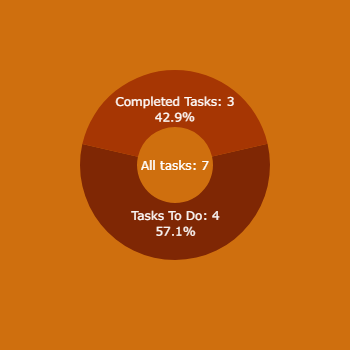
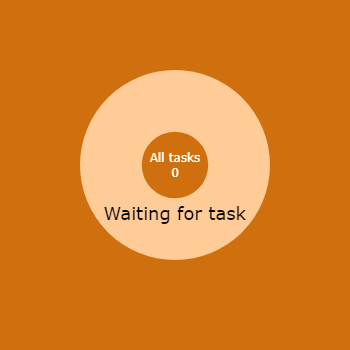
update tasks widget font/color, add default font/color. fix buttons positions after submit update task

Changed region(s): [[0.2286, 0.2, 0.7714, 0.7429]]

diff --git a/src/app/main.py b/src/app/main.py
@@ -6,7 +6,6 @@ import smtplib
 import sqlite3
 import sys, os
 
-
 # Add path to email passwd func
 current = os.path.dirname(os.path.realpath(__file__))
 parent = os.path.dirname(current)
@@ -51,6 +50,9 @@ class ToDoList():
         self.tasks_to_do_list_button = self.create_button_for_list_of_tasks_to_do()
         self.all_tasks_list_button = self.create_button_for_all_task_list()
         self.completed_tasks_list_button = self.create_button_for_completed_tasks_list()
+
+        # For start set bg and fg color for button showing current list
+        self.tasks_to_do_list_button.config(fg=APP_BACKGROUND, bg=INPUTS_BACKGROUND)
 
         # List for tasks
         self.tasks = self.get_to_do_tasks_from_db()
@@ -235,13 +237,14 @@ class ToDoList():
     def email_window(self, email_frame:bool):
         # Hide tasks frame and buttons
         self.list_of_tasks.forget()
-        self.delete_button.forget()
-        self.add_to_completed_button.forget()
+        self.delete_button.place_forget()
+        self.add_to_completed_button.place_forget()
         self.list_scrollbar.place_forget()
         self.email_button.grid_forget()
-        self.edit_task_button.forget()
+        self.edit_task_button.place_forget()
         self.input_field.grid_forget()
         self.button.grid_forget()
+        self.label_of_pie_chart.place_forget()
 
 
         # # Display email frame
@@ -252,30 +255,34 @@ class ToDoList():
             self.lists_button.grid_forget()
 
             # Show buttons lists and input
-            self.delete_button.pack(side=BOTTOM, pady=10) 
-            self.edit_task_button.pack(side=BOTTOM)
-            self.add_to_completed_button.pack(side=BOTTOM, pady=10)
+            self.delete_button.place(x=20, y=440)
+            self.edit_task_button.place(x=20, y=380)
+            self.add_to_completed_button.place(x=20, y=320)  
             self.input_field.grid(row=2, column=0, columnspan=3, padx=30, pady=20)
             self.button.grid(row=2, column=3, sticky='', padx=10, pady=20)
+
+            # Show widget
+            self.label_of_pie_chart.place(x=270, y=300)
 
         else:
             self.email_frame = self.create_email_field() 
             self.lists_button = self.create_lists_button()
+            self.label_of_pie_chart.place_forget()
 
 
         # Create labels
         own_email_address_field = Label(self.email_frame, text="Your email address:", bg=APP_BACKGROUND, fg='white',font='bold')
         passwd_to_email_field = Label(self.email_frame, text="Password to email:", bg=APP_BACKGROUND, fg='white',font='bold')
         email_address_to_send_field = Label(self.email_frame, text ="Recipient Address:", bg=APP_BACKGROUND, fg='white',font='bold')
+        subject_field = Label(self.email_frame, text="Subject:", bg=APP_BACKGROUND, fg='white', font='bold')        
         message_to_send_field = Label(self.email_frame, text ="Message:", bg=APP_BACKGROUND, fg='white', font='bold')
-        subject_field = Label(self.email_frame, text="Subject:", bg=APP_BACKGROUND, fg='white', font='bold')
 
         # Create entries
         own_email_address_entry = Entry(self.email_frame, width=30, bg=INPUTS_BACKGROUND)
         passwd_to_email_entry = Entry(self.email_frame, width=30, bg=INPUTS_BACKGROUND)
         email_address_to_send_entry = Entry(self.email_frame, width=30, bg=INPUTS_BACKGROUND)
+        subject_entry = Entry(self.email_frame, width=30, bg=INPUTS_BACKGROUND)        
         message_to_send_entry = Entry(self.email_frame, width=30, bg=INPUTS_BACKGROUND)
-        subject_entry = Entry(self.email_frame, width=30, bg=INPUTS_BACKGROUND)
 
         # Create send email button
         send_email_button = Button(self.email_frame, width=18, bg='green', fg='white', font='bold', text='Send Email')
@@ -289,8 +296,8 @@ class ToDoList():
         own_email_address_field.place(x=10, y=18)
         passwd_to_email_field.place(x=10, y=58)
         email_address_to_send_field.place(x=10, y=98)
-        message_to_send_field.place(x=10, y=138)
-        subject_field.place(x=10, y=178)
+        subject_field.place(x=10, y=138)        
+        message_to_send_field.place(x=10, y=178)
 
         # Place entries
         own_email_address_entry.place(x=200, y=20)
@@ -361,7 +368,7 @@ class ToDoList():
     # Create scrollbar
     def create_scrollbar(self):
         list_scrollbar = Scrollbar(self.tasks_frame)
-        list_scrollbar.place(x=470, y=10, height=250)
+        list_scrollbar.place(x=470, y=10, height=240)
         return list_scrollbar
     
 
@@ -406,6 +413,10 @@ class ToDoList():
 
                 # Commit changes in database
                 db_connector.commit()
+
+                # Update tasks wigdet
+                self.create_pie_chart()
+                self.pie_chart_label()
 
                 # Clear task input
                 self.input_field.delete(0, END)   
@@ -517,17 +528,21 @@ class ToDoList():
 
         # Show list frame and buttons
         self.list_of_tasks.pack(pady=20, padx=30)
-        self.delete_button.pack(side=BOTTOM, pady=10)
-        self.edit_task_button.pack(side=BOTTOM)
-        self.add_to_completed_button.pack(side=BOTTOM, pady=10)   
 
-        self.tasks_to_do_list_button.grid(row=0, column=0, pady=20, sticky='')
-        self.all_tasks_list_button.grid(row=0, column=1, pady=20, sticky='')
-        self.completed_tasks_list_button.grid(row=0, column=2, pady=20, padx=10, sticky='', columnspan=2)
+        self.tasks_to_do_list_button.grid(row=0, column=0, padx=15, pady=20, sticky='')
+        self.all_tasks_list_button.grid(row=0, column=1, padx=10, pady=20, sticky='')
+        self.completed_tasks_list_button.grid(row=0, column=2, pady=20, padx=20, sticky='', columnspan=2)
         self.email_button.grid(row=1, column=1)
+
         self.input_field.grid(row=2, column=0, columnspan=3, padx=30, pady=20)
         self.button.grid(row=2, column=3, sticky='', padx=10, pady=20)
 
+        self.delete_button.place(x=20, y=440)
+        self.edit_task_button.place(x=20, y=380)
+        self.add_to_completed_button.place(x=20, y=320)       
+
+        # Show widget
+        self.label_of_pie_chart.place(x=270, y=300)
 
         return updated_task
 
@@ -540,15 +555,23 @@ class ToDoList():
 
         # Show list frame and buttons
         self.list_of_tasks.pack(pady=20, padx=30)
-        self.delete_button.pack(side=BOTTOM, pady=10)
-        self.edit_task_button.pack(side=BOTTOM)
-        self.add_to_completed_button.pack(side=BOTTOM, pady=10)   
+
         self.tasks_to_do_list_button.grid(row=0, column=0, padx=15, pady=20, sticky='')
         self.all_tasks_list_button.grid(row=0, column=1, padx=10, pady=20, sticky='')
         self.completed_tasks_list_button.grid(row=0, column=2, pady=20, padx=20, sticky='', columnspan=2)
         self.email_button.grid(row=1, column=1)
+        
         self.input_field.grid(row=2, column=0, columnspan=3, padx=30, pady=20)
         self.button.grid(row=2, column=3, sticky='', padx=10, pady=20)
+        
+        self.delete_button.place(x=20, y=440)
+        self.edit_task_button.place(x=20, y=380)
+        self.add_to_completed_button.place(x=20, y=320) 
+
+
+        # Show widget
+        self.label_of_pie_chart.place(x=270, y=300)
+
 
         # Insert to list not updated task
         self.list_of_tasks.insert(END, no_updated_task)
@@ -603,6 +626,7 @@ class ToDoList():
         task_to_delete = self.list_of_tasks.selection_get()
 
         if task_to_delete != '':
+            
 
             # Delete selected task in list
             self.list_of_tasks.delete(ANCHOR)
@@ -619,6 +643,10 @@ class ToDoList():
             # Commit changes in database and close connections
             db_connect.commit()
             db_connect.close()
+
+            # Update tasks wigdet
+            self.create_pie_chart()
+            self.pie_chart_label()
 
             return task_to_delete
         
@@ -649,6 +677,10 @@ class ToDoList():
             db_connect.commit()
             db_connect.close()
 
+            # Update tasks wigdet
+            self.create_pie_chart()
+            self.pie_chart_label()
+
             return task_to_transfer
         
         return task_to_transfer
@@ -656,7 +688,6 @@ class ToDoList():
     # Create add task to completed list button
     def create_add_to_completed_button(self):
         add_to_completed_button = Button(self.tasks_frame, width=20, text="Add to completed", bg='green', fg="white", font='bold', command=self.add_to_completed_list)
-        # add_to_completed_button.pack(side=BOTTOM, pady=10)
         add_to_completed_button.place(x=20, y=320)
         return add_to_completed_button
 
@@ -664,7 +695,6 @@ class ToDoList():
     # Create update task button
     def create_edit_task_button(self):
         edit_task_button = Button(self.tasks_frame, width=20, text="Edit This Task", bg='blue', fg="white", font='bold', command=self.edit_task)
-        # edit_task_button.pack(side=BOTTOM)
         edit_task_button.place(x=20, y=380)
         return edit_task_button
 
@@ -672,7 +702,6 @@ class ToDoList():
     # Create delete button
     def create_delete_button(self):
         delete_button = Button(self.tasks_frame, width=20, text="Delete task", bg="red", fg="white", font='bold', command=self.delete_task_in_db)
-        # delete_button.pack(side=BOTTOM, pady=10)
         delete_button.place(x=20, y=440)
         return delete_button
         
@@ -816,48 +845,70 @@ class ToDoList():
     def create_pie_chart(self):
         # Connect to database
         db_connector = sqlite3.connect('to_do_list.db')
+
         # Create cursor
         cursor = db_connector.cursor()
-
         # Get tasks from task to do db
         tasks_to_do = cursor.execute("""SELECT name FROM task_to_do""")
 
+        # Create cursor
         cursor = db_connector.cursor()
         # Get tasks from completed tasks db
         completed_tasks = cursor.execute("""SELECT name FROM completed_tasks""")
 
+        # Create cursor
         cursor = db_connector.cursor()
         # Get tasks from all_tasks db
         all_tasks = cursor.execute("""SELECT name FROM all_tasks""")
-        # Close connection
-        # db_connector.close()
 
+
+        # Get len of tasks in all lists
         len_of_completed_tasks = len([task[0] for task in list(completed_tasks)])
         len_of_tasks_to_do = len([task[0] for task in list(tasks_to_do)])
         len_of_all_tasks = len([task[0] for task in list(all_tasks)])
 
-        field_names = [f"Completed Tasks: {len_of_completed_tasks}", f"Tasks To Do: {len_of_tasks_to_do}"]
+        # Create names and values for widget
+        field_names = [f"{len_of_completed_tasks}<br>Completed Tasks", f"{len_of_tasks_to_do}<br>Tasks To Do"]
         field_values = [len_of_completed_tasks, len_of_tasks_to_do]
 
-        title = f"All tasks: {len_of_all_tasks}"
-        fig = px.pie(values=field_values, names=field_names,color_discrete_sequence=px.colors.sequential.Oranges_r, hole=0.4)
+        # Create title with len of all tasks
+        title = f"All tasks<br>{len_of_all_tasks}"
 
-        fig.update_layout(autosize=False,width=350,height=350,showlegend=False, paper_bgcolor=APP_BACKGROUND)
-        
-        
+        if len_of_all_tasks > 0:
+            fig = px.pie(values=field_values, names=field_names, color=field_names, hole=0.35, color_discrete_map={(str(len_of_completed_tasks) + "<br>Completed Tasks") : "#458B00", (str(len_of_tasks_to_do)  + "<br>Tasks To Do") : "#FFA500"})
 
-        fig.update_traces(rotation=77,textposition='inside',
-                    title=title,
-                    title_font_color="white",
-                    textinfo='label+percent',
-                    textfont_size=12)
+            fig.update_layout(autosize=False, width=350, height=350, showlegend=False, paper_bgcolor=APP_BACKGROUND)
+            
+
+    
+            fig.update_traces(direction="clockwise",sort=False, rotation=90, textposition='inside',
+                        title=title,
+                        title_font_color="white",
+                        textinfo='label+percent',
+                        textfont_size=14,
+                        textfont_color='white')
+            
+            if len_of_completed_tasks <= 0:
+                fig.update_traces(rotation=180)
+
+            elif len_of_tasks_to_do <= 0:
+                fig.update_traces(rotation=0)
        
+        else:
+            fig = px.pie(values=[1,0], names=['Waiting for task',''], hole=0.35, color=['Waiting for task',''], color_discrete_map={'Waiting for task': INPUTS_BACKGROUND, '': INPUTS_BACKGROUND})
+
+            fig.update_layout(autosize=False, width=350, height=350, showlegend=False, paper_bgcolor=APP_BACKGROUND)
+
+            fig.update_traces(direction="clockwise",sort=False, rotation=0, textposition='inside',
+                        title=title,
+                        title_font_color="white",
+                        textinfo='label',
+                        textfont_size=18,
+                        textfont_color='black')
+
         fig.write_image("images/pie_chart.png")
 
-        
-
-        # fig.show()
-
+  
     def pie_chart_label(self):
         image = PhotoImage(file="images/pie_chart.png")
         chart = Label(self.tasks_frame, image=image, width=220, height=220)
